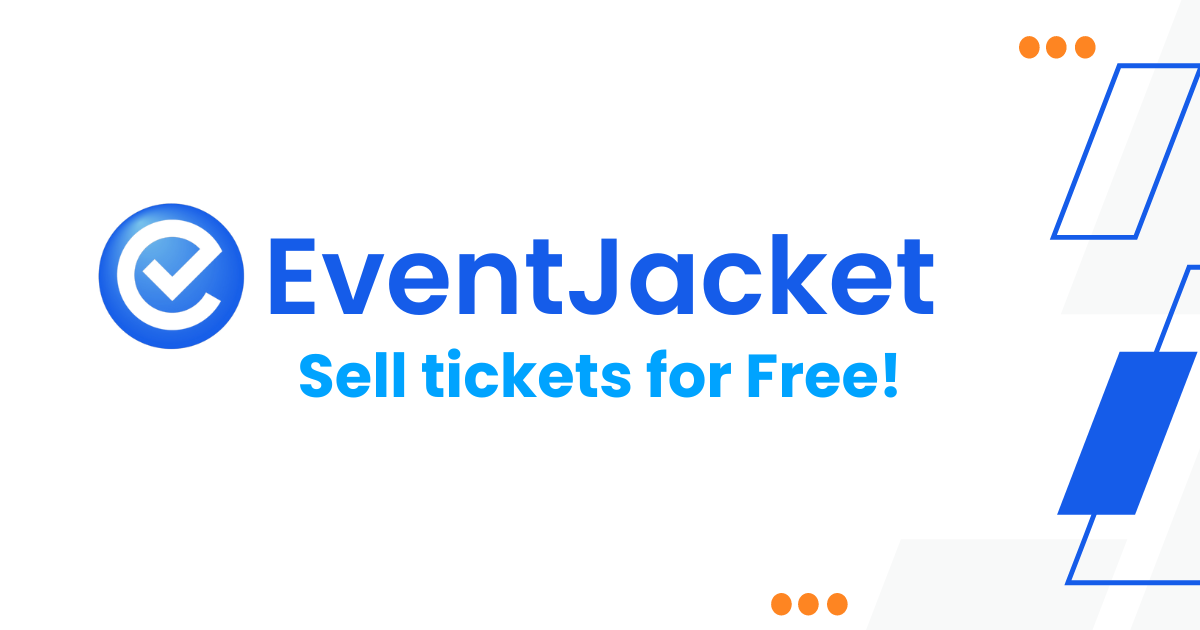
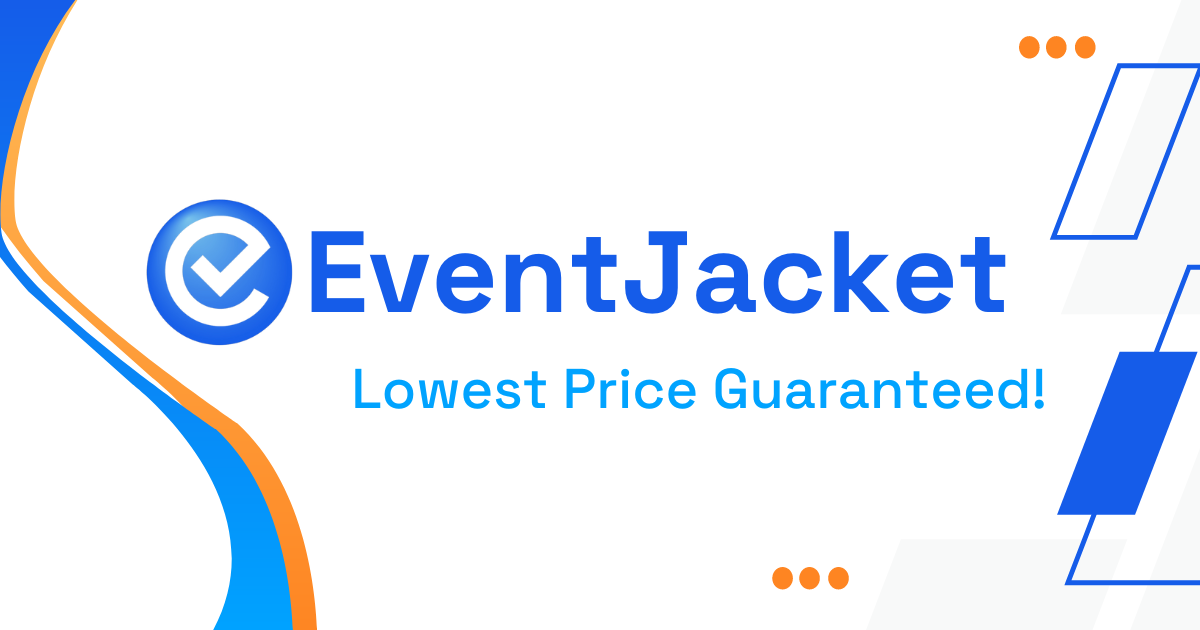
updated font and pricing page

Changed region(s): [[0.0, 0.0, 0.8633, 1.0], [0.2467, 0.5429, 0.8942, 0.6635], [0.6475, 0.9048, 0.7092, 0.9952]]

diff --git a/components/ComparisonTable/ComparisonTable.tsx b/components/ComparisonTable/ComparisonTable.tsx
@@ -18,85 +18,118 @@ const ComparisonTable = () =>
     },
   ];
 
+  // Data structure for features, pricing, etc.
+  const sections = [
+    {
+      category: 'Comparison Table',
+      rows: [
+        {
+          label: 'Company',
+          values: [ 'EventJacket', 'EventBrite', 'TicketLeap' ],
+        },
+      ],
+    },
+    {
+      category: 'Pricing',
+      rows: [
+        {
+          label: 'Monthly Fee',
+          values: [ 'None', '$39.99', 'None' ],
+        },
+        {
+          label: 'App Fee',
+          values: [ '.50 cents per ticket', '3.7% + $1.79 service fee per ticket', '$1 + 2% of the ticket price' ],
+        },
+        {
+          label: 'Payment Processing Fee',
+          values: [ '2.9% plus 30 cents (Stripe)', ' 2.9% payment processing', '3% payment processing' ],
+        },
+      ],
+    },
+    {
+      category: 'Features',
+      rows: [
+        {
+          label: 'CRM Included',
+          values: [ 'Yes, with CRM for vendors and performers', 'Basic attendee management', 'No' ],
+        },
+        {
+          label: 'Mobile App',
+          values: [ 'Yes', 'Yes', 'Yes' ],
+        },
+        {
+          label: 'Support',
+          values: [ '24/7 support, onboarding, knowledge base', 'Basic support, no onboarding', 'Basic support, no onboarding' ],
+        },
+      ],
+    },
+    // Add more categories and rows here...
+  ];
+
   return (
     <div>
-      {/* Comparison Table */ }
       <section className="bg-gray-50 dark:bg-gray-900 py-10 sm:py-10">
         <div className="max-w-screen-xl px-2 mx-auto lg:px-12">
           <div className="relative overflow-hidden bg-white shadow-2xl dark:bg-gray-900 sm:rounded-lg">
+            {/* Header Section */ }
             <div className="flex flex-col items-start justify-between p-4 space-y-3 dark:bg-gray-800 md:flex-row md:items-center md:space-y-0 md:space-x-4">
-              <div className="flex items-center">
-                <h5 className="mr-3 font-semibold dark:text-white">Compare Products</h5>
-              </div>
+              <h5 className="mr-3 font-semibold dark:text-white">Compare Products</h5>
             </div>
-            <div className="mx-4 dark:mx-0 border-t dark:border-gray-700 dark:bg-gray-800"></div>
-            <div className="flex flex-col items-center justify-left p-4 space-y-3 dark:bg-gray-800 md:flex-row md:space-y-0 md:space-x-4"></div>
+
+            {/* Divider */ }
+            <div className="mx-4 dark:mx-0 border-t dark:border-gray-700"></div>
+
+            {/* Table Section */ }
             <div className="overflow-x-auto">
               <table className="w-full text-sm text-left text-gray-500 dark:text-gray-400">
                 <thead className="text-xs text-gray-900 dark:text-white">
                   <tr>
                     <th scope="col" className="px-4 py-3"></th>
-                    {/* Add column headers dynamically */ }
+                    {/* Render product logos */ }
                     { products.map( ( product ) => (
                       <th key={ product.name } scope="col" className="px-4 py-3">
-                        <div className="text-lg flex flex-col items-center lg:items-start">
-                          <div className="flex flex-col items-center">
-                            <img
-                              src={ product.logo }
-                              alt={ product.name }
-                              className="max-h-32 w-auto object-contain"
-                            />
-                           
-                          </div>
+                        <div className="text-lg flex flex-col items-start"> {/* Changed align to start */ }
+                          <img
+                            src={ product.logo }
+                            alt={ product.name }
+                            className="max-h-32 w-auto object-contain"
+                          />
                         </div>
                       </th>
                     ) ) }
                   </tr>
                 </thead>
+
                 <tbody>
-                  {/* Dynamically render rows */ }
-                  { [
-                    {
-                      category: 'Features',
-                      rows: [
-                        {
-                          label: 'Brand',
-                          values: [ 'EventJacket', 'EventBrite', 'TicketLeap' ],
-                        },
-                      ],
-                    },
-                    {
-                      category: 'Pricing',
-                      rows: [
-                        {
-                          label: 'Monthly Fee',
-                          values: [ 'Free', '39.99', 'Free' ],
-                        },
-                      ],
-                    },
-                    // More categories and rows...
-                  ].map( ( section, index ) => (
-                    <React.Fragment key={ `section-${ index }` }>
+                  { sections.map( ( section, sectionIndex ) => (
+                    <React.Fragment key={ `section-${ sectionIndex }` }>
+                      {/* Section header */ }
                       <tr className="border-b bg-gray-50 dark:bg-gray-800 dark:border-gray-700">
                         <th
                           colSpan={ 4 }
-                          scope="row"
-                          className="px-4 py-3 font-medium text-gray-900 whitespace-nowrap dark:text-white"
+                          className="px-4 py-3 font-medium text-gray-900 dark:text-white"
                         >
                           { section.category }
                         </th>
                       </tr>
+                      {/* Rows */ }
                       { section.rows.map( ( row, rowIndex ) => (
-                        <tr key={ `row-${ index }-${ rowIndex }` } className="border-b dark:border-gray-700">
-                          <th scope="row" className="px-4 py-3 font-normal whitespace-nowrap">
+                        <tr key={ `row-${ sectionIndex }-${ rowIndex }` } className="border-b dark:border-gray-700">
+                          <th className="px-4 py-3 font-normal whitespace-nowrap">
                             { row.label }
                           </th>
                           { row.values.map( ( value, valueIndex ) => (
                             <td
-                              key={ `value-${ index }-${ rowIndex }-${ valueIndex }` }
-                              className="px-4 py-3 font-bold text-gray-900 whitespace-nowrap dark:text-white" // Make product names bold
+                              key={ `value-${ sectionIndex }-${ rowIndex }-${ valueIndex }` }
+                              className="px-4 py-3 font-bold text-gray-900 dark:text-white"
                             >
-                              { value }
+                              {/* Split the value by a custom separator to insert line breaks */ }
+                              { value.split( ', ' ).map( ( line, lineIndex ) => (
+                                <React.Fragment key={ lineIndex }>
+                                  { line }
+                                  <br />
+                                </React.Fragment>
+                              ) ) }
                             </td>
                           ) ) }
                         </tr>
@@ -106,6 +139,7 @@ const ComparisonTable = () =>
                 </tbody>
               </table>
             </div>
+
           </div>
         </div>
       </section>

diff --git a/app/dashboard/[org]/banking/payments/page.tsx b/app/dashboard/[org]/banking/payments/page.tsx
@@ -106,7 +106,48 @@ export default function PaymentsPage({ params }: { params: { org: string } }) {
           stripeConnectInstance={stripeConnectInstance}
           onClose={closePaymentDetails}
         />
-      )}
+      ) }
+      <div className="pt-6">
+        <h2 className="text-2xl font-semibold mb-4">Understanding Payments</h2>
+        <p className="text-gray-700 mb-4">
+          Payments refer to the transactions that occur when attendees purchase tickets for your events, make donations, or pay for any services you offer through EventJacket. Stripe Connect handles the secure processing of these payments, ensuring that the funds are collected and available for payout to your account.
+        </p>
+
+        <h3 className="text-lg font-semibold mb-2">How Payments Work</h3>
+        <ul className="list-disc list-inside mb-4">
+          <li>When an attendee purchases a ticket or makes a donation, a payment is created and processed securely by Stripe.</li>
+          <li>You can view all your recent payments here, including the date, status, and amount of each payment.</li>
+          <li>Each payment is tied to a specific event or donation, allowing you to track your earnings per event.</li>
+        </ul>
+
+        <h3 className="text-lg font-semibold mb-2">Payment Statuses</h3>
+        <p className="text-gray-700 mb-4">
+          Each payment will have one of the following statuses:
+        </p>
+        <ul className="list-disc list-inside mb-4">
+          <li><strong>Paid:</strong> The payment has been successfully processed, and the funds are available for payout.</li>
+          <li><strong>Pending:</strong> The payment is currently being processed and will be completed shortly.</li>
+          <li><strong>Failed:</strong> The payment was not successfully processed. This could be due to issues with the payment method or insufficient funds.</li>
+          <li><strong>Refunded:</strong> The payment has been refunded to the attendee or donor.</li>
+        </ul>
+
+        <h3 className="text-lg font-semibold mb-2">Viewing Payment Details</h3>
+        <ul className="list-disc list-inside mb-4">
+          <li>Click on a specific payment to view more details, including the breakdown of fees, refund options, and customer information.</li>
+          <li>Manage refunds and disputes directly from this page by selecting the payment and following the provided steps.</li>
+        </ul>
+
+        <h3 className="text-lg font-semibold mb-2">Exporting Payment Data</h3>
+        <ul className="list-disc list-inside mb-4">
+          <li>You can export your payment history by clicking the <strong>Export</strong> button. This is useful for tracking earnings and preparing financial reports.</li>
+          <li>Filter your payments by date or status using the <strong>Filters</strong> button to view the specific transactions you need.</li>
+        </ul>
+
+        <h3 className="text-lg font-semibold mb-2">Need Help?</h3>
+        <p className="text-gray-700">
+          If you need assistance with managing your payments or have questions about specific transactions, feel free to reach out to our support team for help.
+        </p>
+      </div>
     </div>
   );
 }

diff --git a/app/layout.tsx b/app/layout.tsx
@@ -1,7 +1,7 @@
 // app/layout.tsx
 
 import type { PropsWithChildren } from 'react';
-import { Poppins } from 'next/font/google';
+import { Poppins, Space_Grotesk } from 'next/font/google';  // Import both fonts
 import { twMerge } from 'tailwind-merge';
 import './globals.css';
 import ClientProviders from './ClientProviders';
@@ -20,16 +20,24 @@ export const metadata = {
 };
 
 // Load the fonts with specific weights
-const montserrat = Poppins( {
+const poppins = Poppins( {
     weight: [ '400', '700' ], // Regular and Bold for headings
     subsets: [ 'latin' ],
     display: 'swap',
 } );
 
+
+const spaceGrotesk = Space_Grotesk( {  // Load Space Grotesk font
+    weight: [ '400' ],  // Regular weight
+    subsets: [ 'latin' ],
+    display: 'swap',
+} );
+
+
 export default function RootLayout ( { children }: PropsWithChildren )
 {
     return (
-        <html lang="en" className={ `${ montserrat.className }` }>
+        <html lang="en" className={ `${ spaceGrotesk.className }` }>
             <Head>
                 <meta charSet="utf-8" />
                 <meta name="viewport" content="width=device-width, initial-scale=1" />
@@ -44,6 +52,7 @@ export default function RootLayout ( { children }: PropsWithChildren )
                 <meta property="og:image:height" content="630" />
                 <meta property="og:image:alt" content="EventJacket - Your Event Management Solution" />
                 <meta property="fb:app_id" content="453279560972900" />
+                
                 <link rel="apple-touch-icon" sizes="180x180" href="/apple-touch-icon.png"/>
                     <link rel="icon" type="image/png" sizes="32x32" href="/favicon-32x32.png"/>
                         <link rel="icon" type="image/png" sizes="16x16" href="/favicon-16x16.png"/>

diff --git a/app/(Marketing Site)/pricing/page.tsx b/app/(Marketing Site)/pricing/page.tsx
@@ -24,15 +24,15 @@ export const metadata: Metadata = {
 
 
 const features = [
-    'Create and manage multiple events with customizable details and schedules.',
-    'Send automated email invitations and reminders to attendees.',
-    'Track RSVPs and manage guest lists in real-time.',
+    'Create and manage multiple events. ',
+    'Customize event pages with your branding and logo.',
+    'Sell tickets online and manage registrations.',
+    'Capture attendee information and send event reminders.',
+    
     'Generate QR codes for easy check-in and attendance tracking.',
-    'Offer tiered ticket pricing and promotional codes for discounts.',
+    'Offer several types of tickets with different pricing',
     'Integrate with payment gateways for secure online ticket sales.',
-    'Provide interactive seating charts for assigned seating events.',
-    'Create custom registration forms to collect attendee information.',
-    'Offer a mobile-responsive event website for each event.',
+
     'Generate detailed reports and analytics on ticket sales and attendance.'
 ];
 
